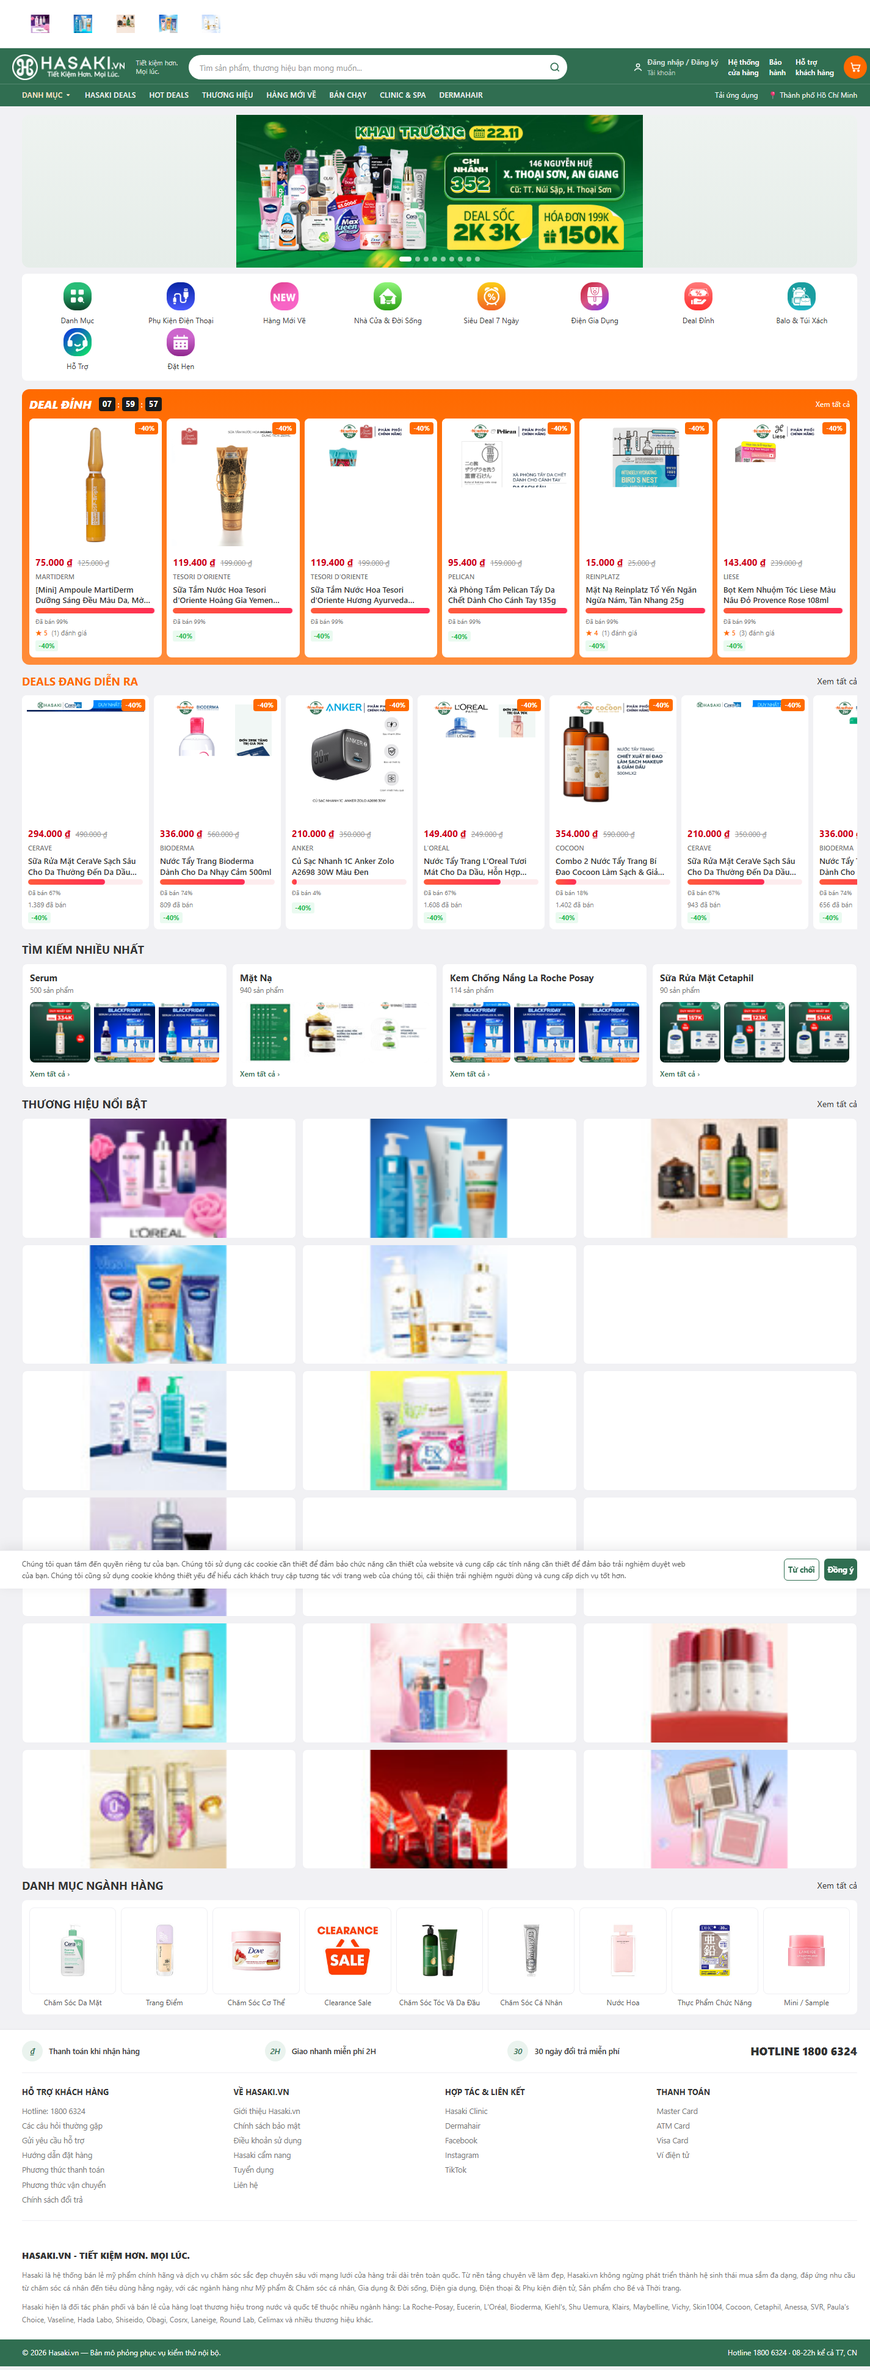
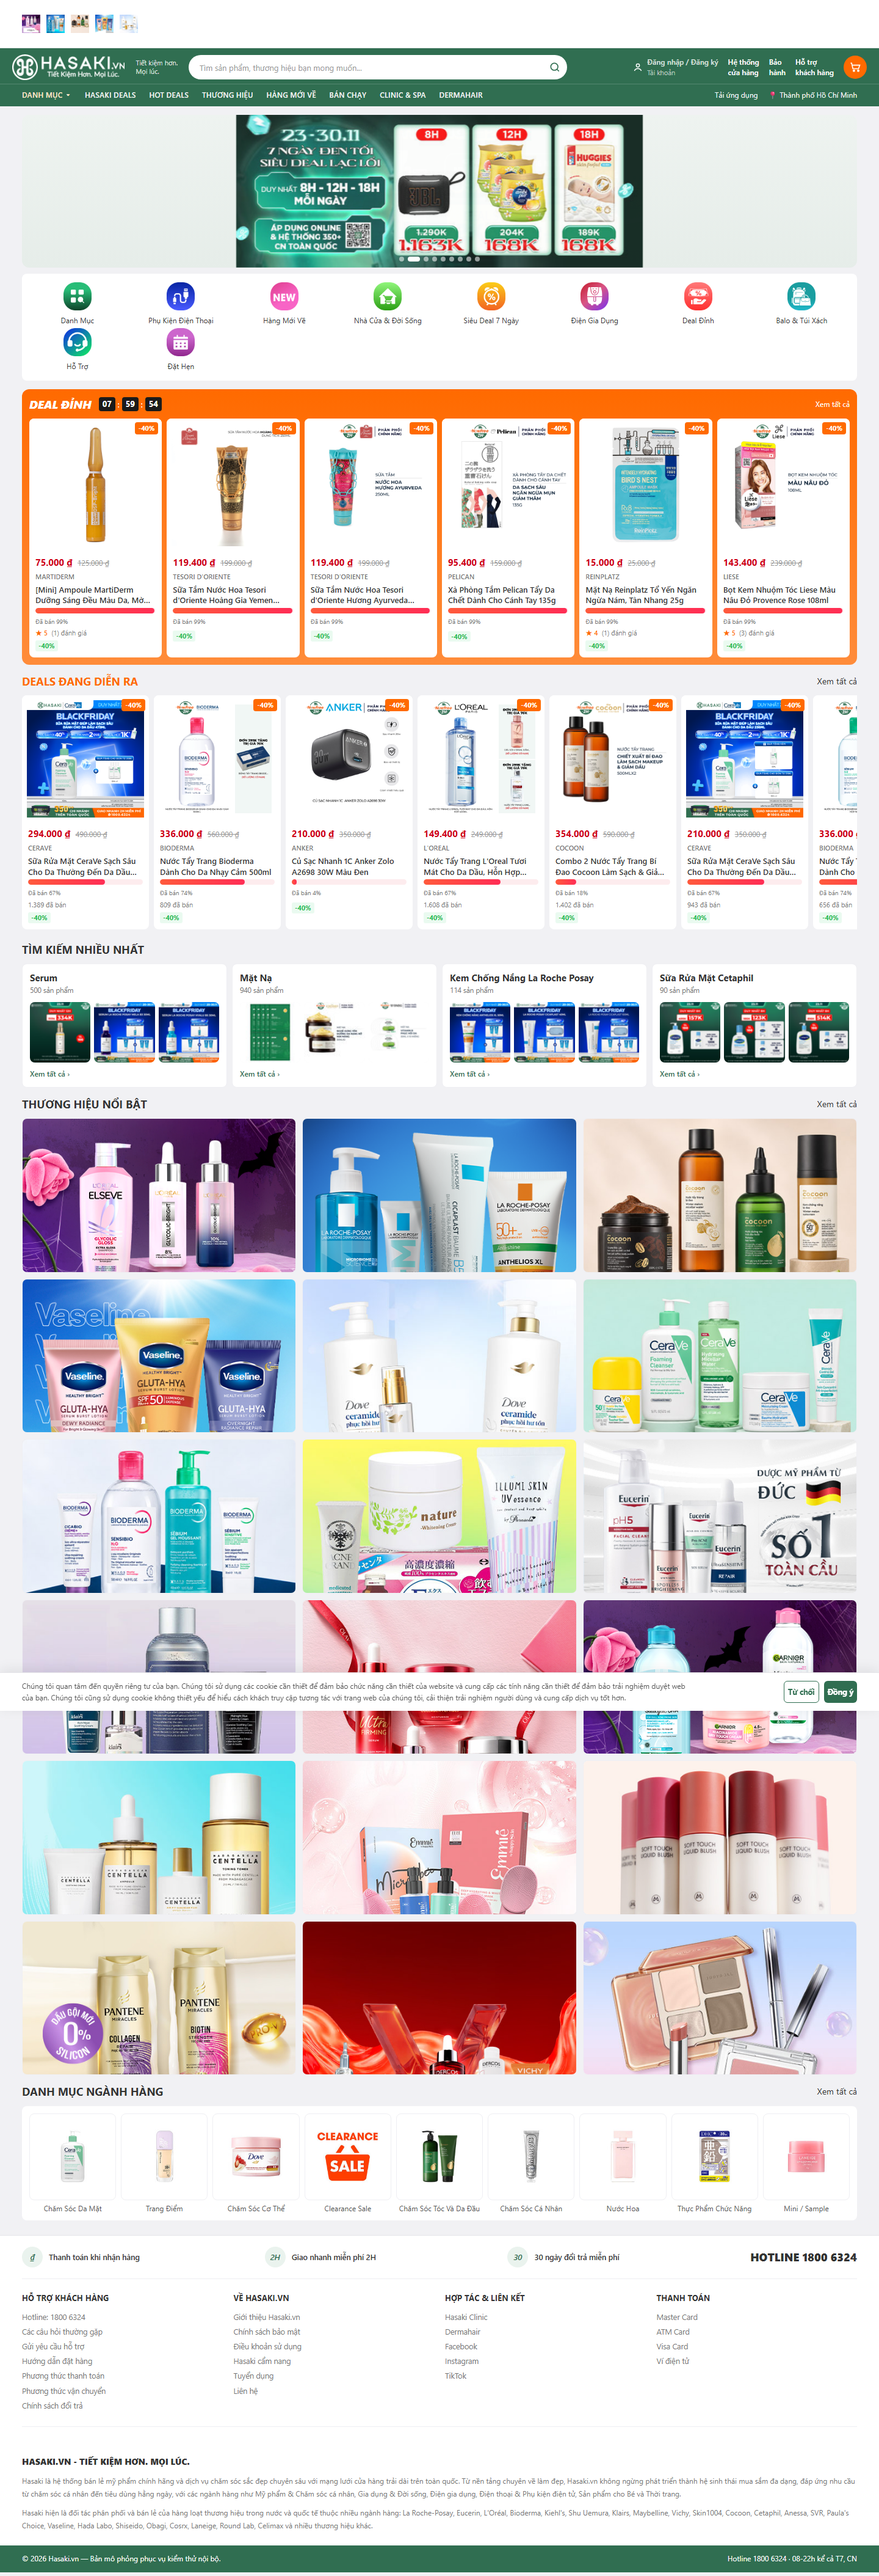
home: route each shortcut to its own destination (category/search/deals/policy) + brand tiles use full-size covers + eager-load above-fold images

diff --git a/site/assets/home.js b/site/assets/home.js
@@ -136,7 +136,7 @@
       '<div class="search-grid">' + items.map(function (s) {
         return '<div class="search-card"><div class="sc-head"><b>' + esc(s.title) + '</b><span>' + esc(s.sub) + '</span></div>' +
           '<div class="sc-imgs">' + (s.images || []).slice(0, 3).map(function (u, i) {
-            return '<a href="' + esc((s.urls && s.urls[i]) || s.url) + '"><img loading="lazy" src="' + esc(u) + '" alt=""></a>';
+            return '<a href="' + esc((s.urls && s.urls[i]) || s.url) + '"><img src="' + esc(u) + '" alt=""></a>';
           }).join('') + '</div>' +
           '<a class="sc-more" href="' + esc(s.url) + '">Xem tất cả &rsaquo;</a></div>';
       }).join('') + '</div>';
@@ -152,7 +152,7 @@
       '<a class="more" href="/brands">Xem tất cả</a></div>' +
       '<div class="brand-grid">' + items.map(function (b) {
         return '<a class="brand-tile" href="' + esc(b.url) + '" title="' + esc(b.name) + '">' +
-          '<img loading="lazy" src="' + esc(b.img) + '" alt="' + esc(b.name) + '"></a>';
+          '<img src="' + esc(b.img) + '" alt="' + esc(b.name) + '"></a>';
       }).join('') + '</div>';
   }
 
@@ -165,7 +165,7 @@
     el.innerHTML = '<div class="section-head"><div class="section-title">' + esc(d.catsTitle) + '</div>' +
       '<a class="more" href="/catalog">Xem tất cả</a></div>' +
       '<div class="tile-grid">' + items.map(function (c) {
-        return '<a class="tile" href="' + esc(c.url) + '"><i><img loading="lazy" src="' + esc(c.img) + '" alt=""></i><span>' + esc(c.name) + '</span></a>';
+        return '<a class="tile" href="' + esc(c.url) + '"><i><img src="' + esc(c.img) + '" alt=""></i><span>' + esc(c.name) + '</span></a>';
       }).join('') + '</div>';
   }
 

diff --git a/site/assets/base.css b/site/assets/base.css
@@ -247,7 +247,7 @@ p { margin: 0; }
 
 /* ---------- 品牌墙 ---------- */
 .brand-grid { display: grid; grid-template-columns: repeat(3, 1fr); gap: 10px; }
-.brand-tile { background: #fff; border-radius: var(--radius); display: grid; place-items: center; padding: 0; aspect-ratio: 16/7; overflow: hidden; border: 1px solid var(--line-2); }
+.brand-tile { background: #fff; border-radius: var(--radius); display: grid; place-items: center; padding: 0; aspect-ratio: 16/9; overflow: hidden; border: 1px solid var(--line-2); }
 .brand-tile img { width: 100%; height: 100%; object-fit: cover; }
 
 /* ---------- 销售榜单 ---------- */
